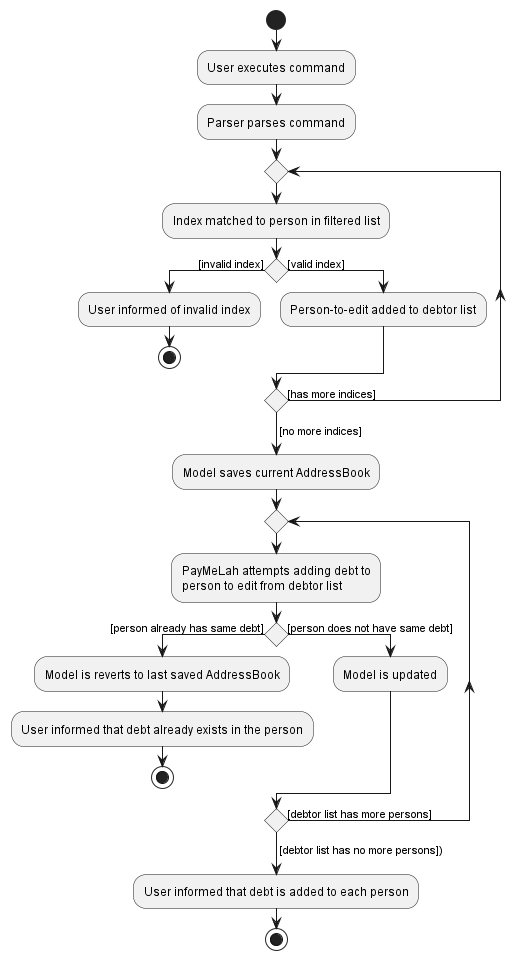
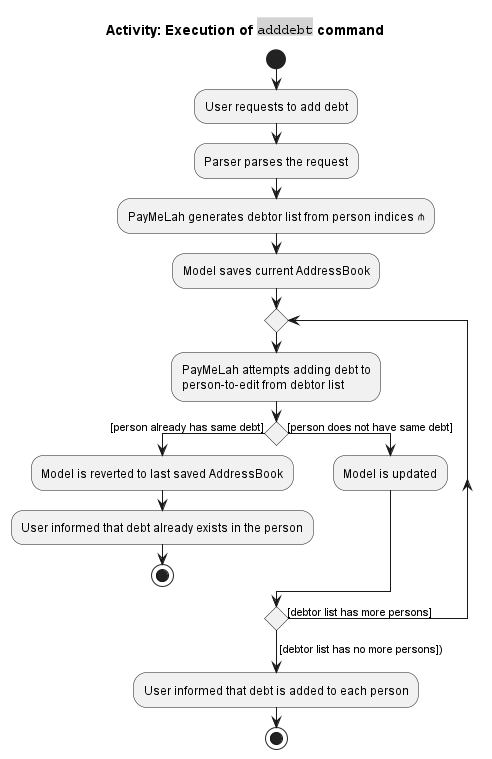
Update adddebt DG

Changed region(s): [[0.0305, 0.0, 0.9756, 1.0], [0.9451, 0.6364, 0.9756, 0.6667]]

diff --git a/docs/DeveloperGuide.md b/docs/DeveloperGuide.md
@@ -158,21 +158,22 @@ This section describes some noteworthy details on how certain features are imple
 
 #### Implementation
 
-This feature is facilitated by `AddDebtCommand` and `AddDebtCommandParser` in the `Logic` component, and work as per described above.
+This feature is facilitated by `AddDebtCommand` and `AddDebtCommandParser` in the `Logic` component, and work as per [described above](#logic-component).
 
 When given a valid user input, the `AddDebtCommandParser` will create a new `Debt` object to add to the `DebtList` of the specified `Person`.
 
-To speed up adding similar `Debt` objects (for example, when each person is to pay $30 for lunch) to the `DebtList` of more than 1 `Person`, the `AddDebtCommand` can take in multiple indices such that a new `Debt` object will be added to the `DebtList` of each specified `Person`. To ensure that modifying (such as marking as paid, or other future possible extensions such as editing) the `Debt` for 1 `Person` does not also erroneously modify the `Debt` of another `Person`, each `Debt` object should only be added to one `DebtList`, and an `equal` instance of `Debt` should be created and added to each `DebtList`.
+Consider a scenario where the user wishes to add a $10 food debt to multiple people. To speed up adding similar `Debt` objects to the `DebtList` of more than 1 `Person`, the `AddDebtCommand` takes in a `Set` of multiple indices. For each `Person` that an `Index` corresponds to, a new `Debt` object will be added to the `DebtList` of the specified `Person`. Some commands such as marking debts as paid, or possible future extensions such as editing a debt, may require modifying a `Debt` object in the `DebtList` of a `Person`. To ensure that modifying this `Debt` for 1 `Person` does not also erroneously modify the `Debt` of another `Person`, during execution of `adddebt`, each `Debt` object is only added to one `DebtList`, and an `equal` instance of `Debt` is created and added for each other `DebtList`.
 
 To enable the user to retroactively add a `Debt` that is backdated, the `AddDebtCommandParser` can take in optional `<date>` and `<time>` parameters. By making these parameters optional, a default behaviour can be implemented such that when neither parameter is specified, a `Debt` object with the current date and time is created. This will improve the efficiency at which users can input new `Debt` objects for the (expected) most common scenario where they add the `Debt` into PayMeLah on the actual day the debt occurred.
 
-An example of the new objects in the internal state when a valid `adddebt` command provided by the user, `adddebt 1 2 d/food m/10`, has been parsed is given by the object diagram below. Note that new `DebtDate` and `DebtTime` objects are created even though the user did not specify the date and time parameters in their command.
+Consider an example of a valid `adddebt` command, `adddebt 1 2 d/food m/10`. The new objects in the final internal state after this example has been parsed is given by the object diagram below. Note that new `DebtDate` and `DebtTime` objects are created even though the user did not specify date and time parameters in their input command.
 
 <img src="images/AddDebtObjectDiagram.png" width="450" />
 
-The activity diagram below details the behaviour of PayMeLah when a user inputs an `adddebt` command of valid syntax to be executed.
+The activity diagrams below detail the behaviour of PayMeLah when a user inputs an `adddebt` command of valid syntax to be executed.
 
 <img src="images/AddDebtActivityDiagram.png" width="450" />
+<img src="images/AddDebtActivityDiagramRake.png" width="450" />
 
 ### \[Proposed\] Improved find command
 
